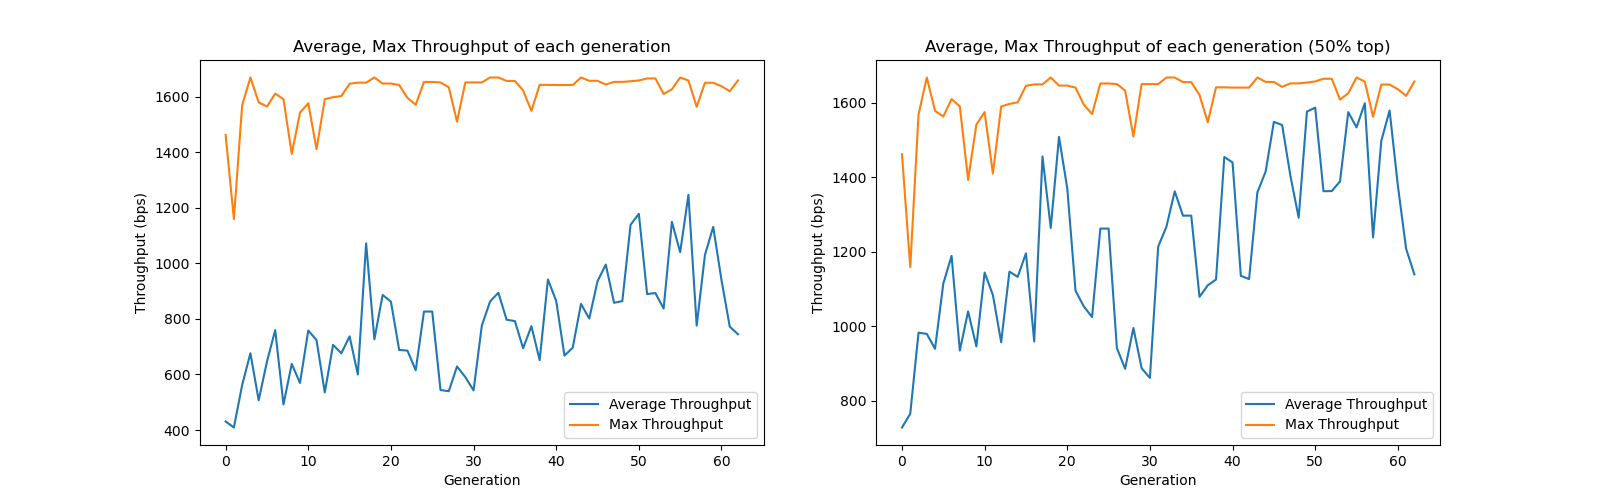
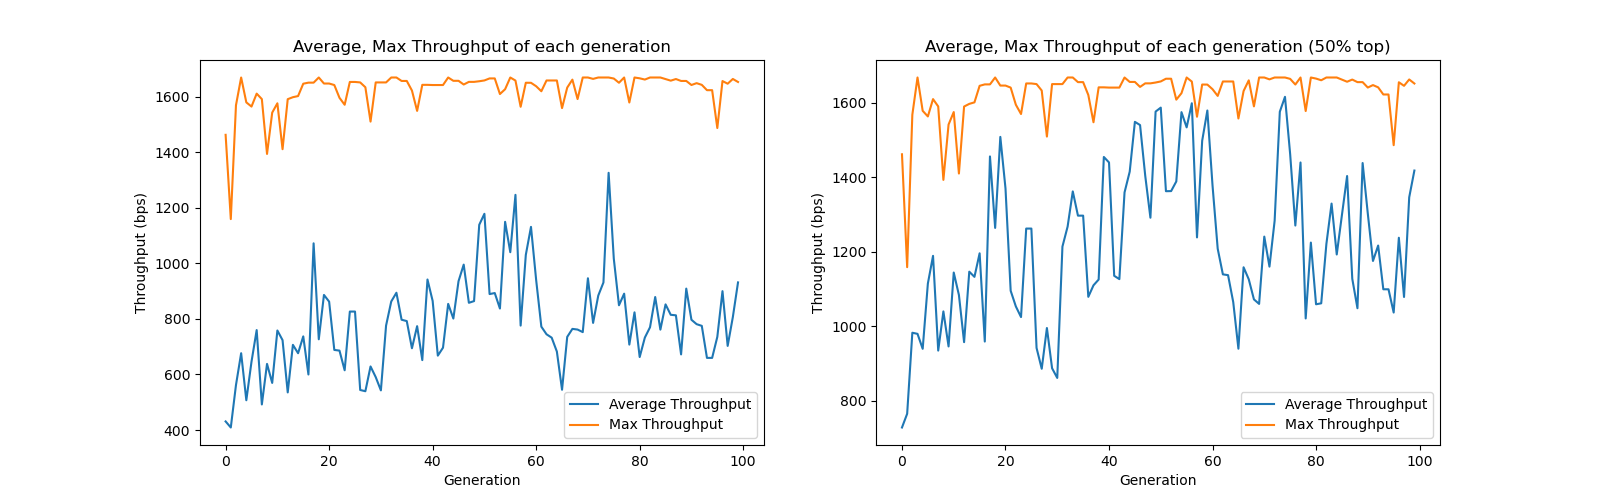
feat: add some figs

diff --git a/report.tex b/report.tex
@@ -551,7 +551,46 @@ GPT-4はシンプルなJSON over HTTP(s) APIを提供している。
 \figref{figure:generation_throughput}から、世代が進むにつれて、評価値の平均が緩やかな増加を示していることが読み取れる。
 その一方、個体の評価値の最大値については、世代を追っても増加傾向は見られない。
 
-% TODO: 評価値の分布を載せる
+\begin{figure}[htbp]
+  \setlength\fboxsep{0pt}
+  \centering
+  \includegraphics[width=1.0\linewidth]{fig/chap05/generation_throughput_exclude_zero.png}
+  \caption{実行不可能な個体を除いた世代ごとのスループットの平均の推移}
+  \label{figure:generation_result_exclude_zero}
+\end{figure}
+
+\begin{figure}[htbp]
+  \setlength\fboxsep{0pt}
+  \centering
+  \includegraphics[width=1.0\linewidth]{fig/chap05/generation_result.png}
+  \caption{世代ごとのssthresh, cwndの平均の推移}
+  \label{figure:generation_result}
+\end{figure}
+
+\begin{figure}[htbp]
+  \setlength\fboxsep{0pt}
+  \centering
+  \includegraphics[width=1.0\linewidth]{fig/chap05/boxplot_throughput.png}
+  \caption{1, 10, 50, 100世代のスループットの箱ひげ図}
+  \label{figure:boxplot_throughput}
+\end{figure}
+
+\begin{figure}[htbp]
+  \setlength\fboxsep{0pt}
+  \centering
+  \includegraphics[width=1.0\linewidth]{fig/chap05/boxplot.png}
+  \caption{1, 10, 50, 100世代のssthresh, cwndの箱ひげ図}
+  \label{figure:boxplot}
+\end{figure}
+
+\begin{figure}[htbp]
+  \setlength\fboxsep{0pt}
+  \centering
+  \includegraphics[width=1.0\linewidth]{fig/chap05/invalid_results.png}
+  \caption{実行不可能な個体数の推移}
+  \label{figure:invalid_results}
+\end{figure}
+
 
 また、すべての世代の中でもっとも高い評価値は、1668.45であった。
 本研究ではベンチマークとして、NewRenoを用いており、NewRenoの評価値は1523.26であった。
